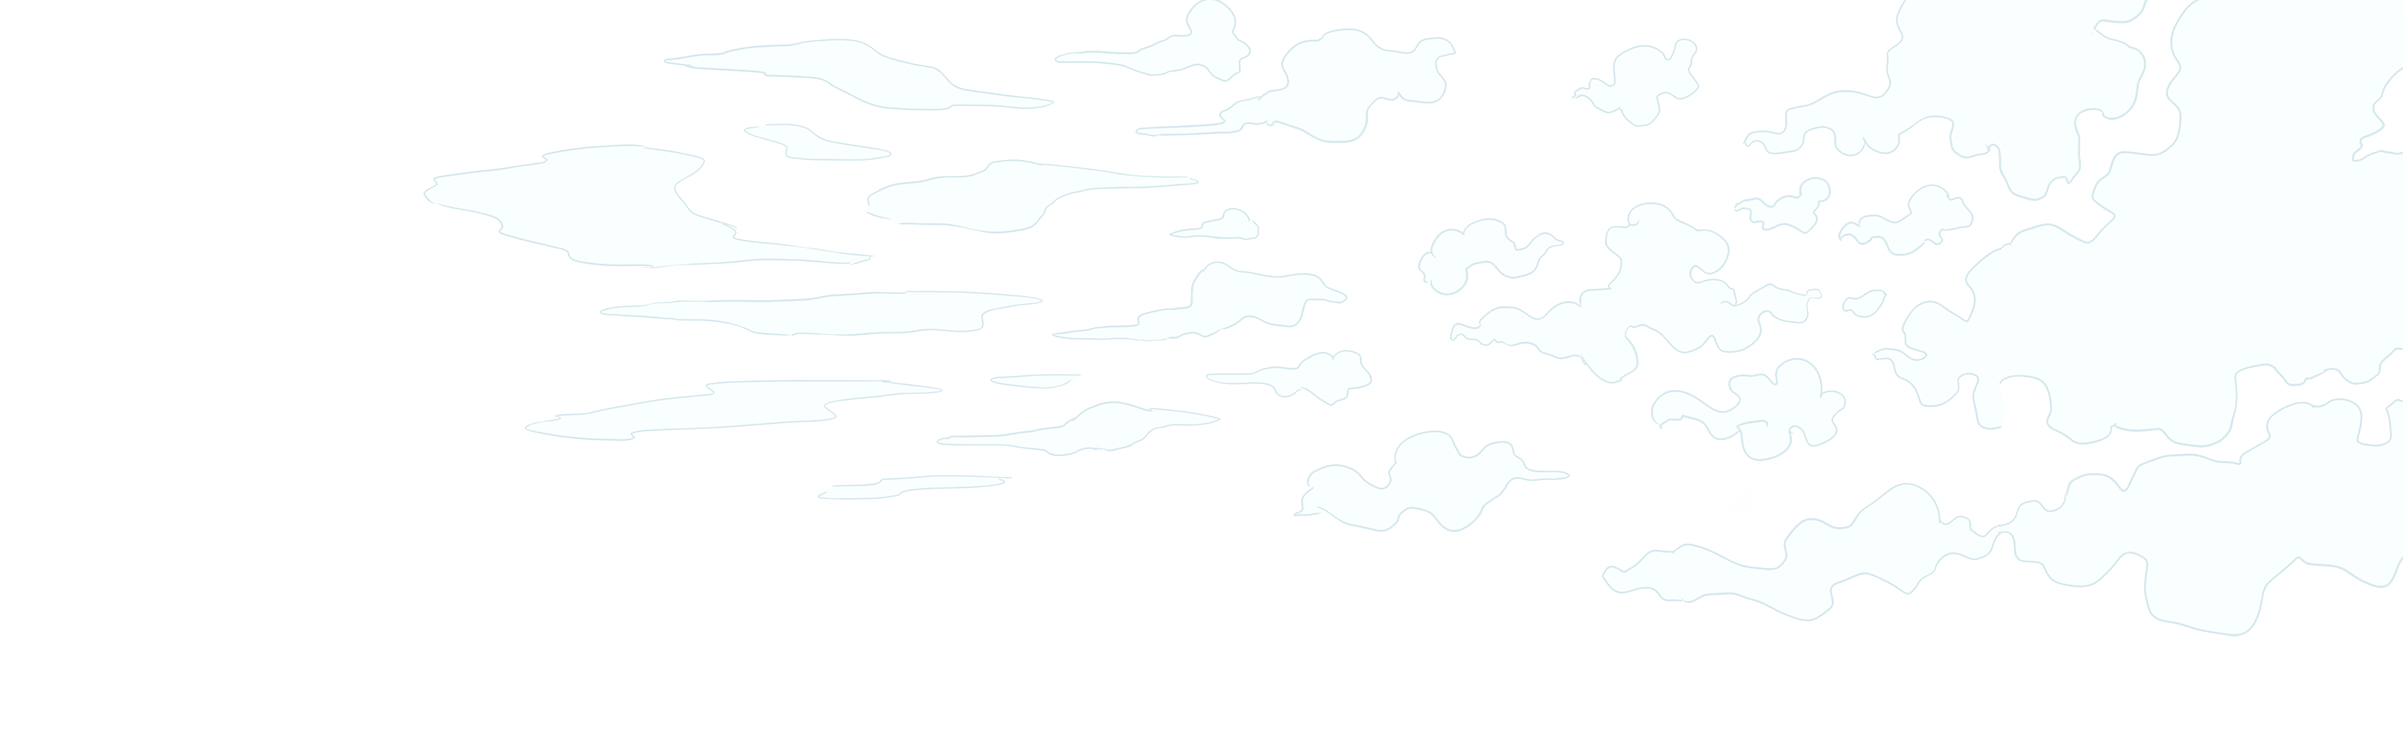
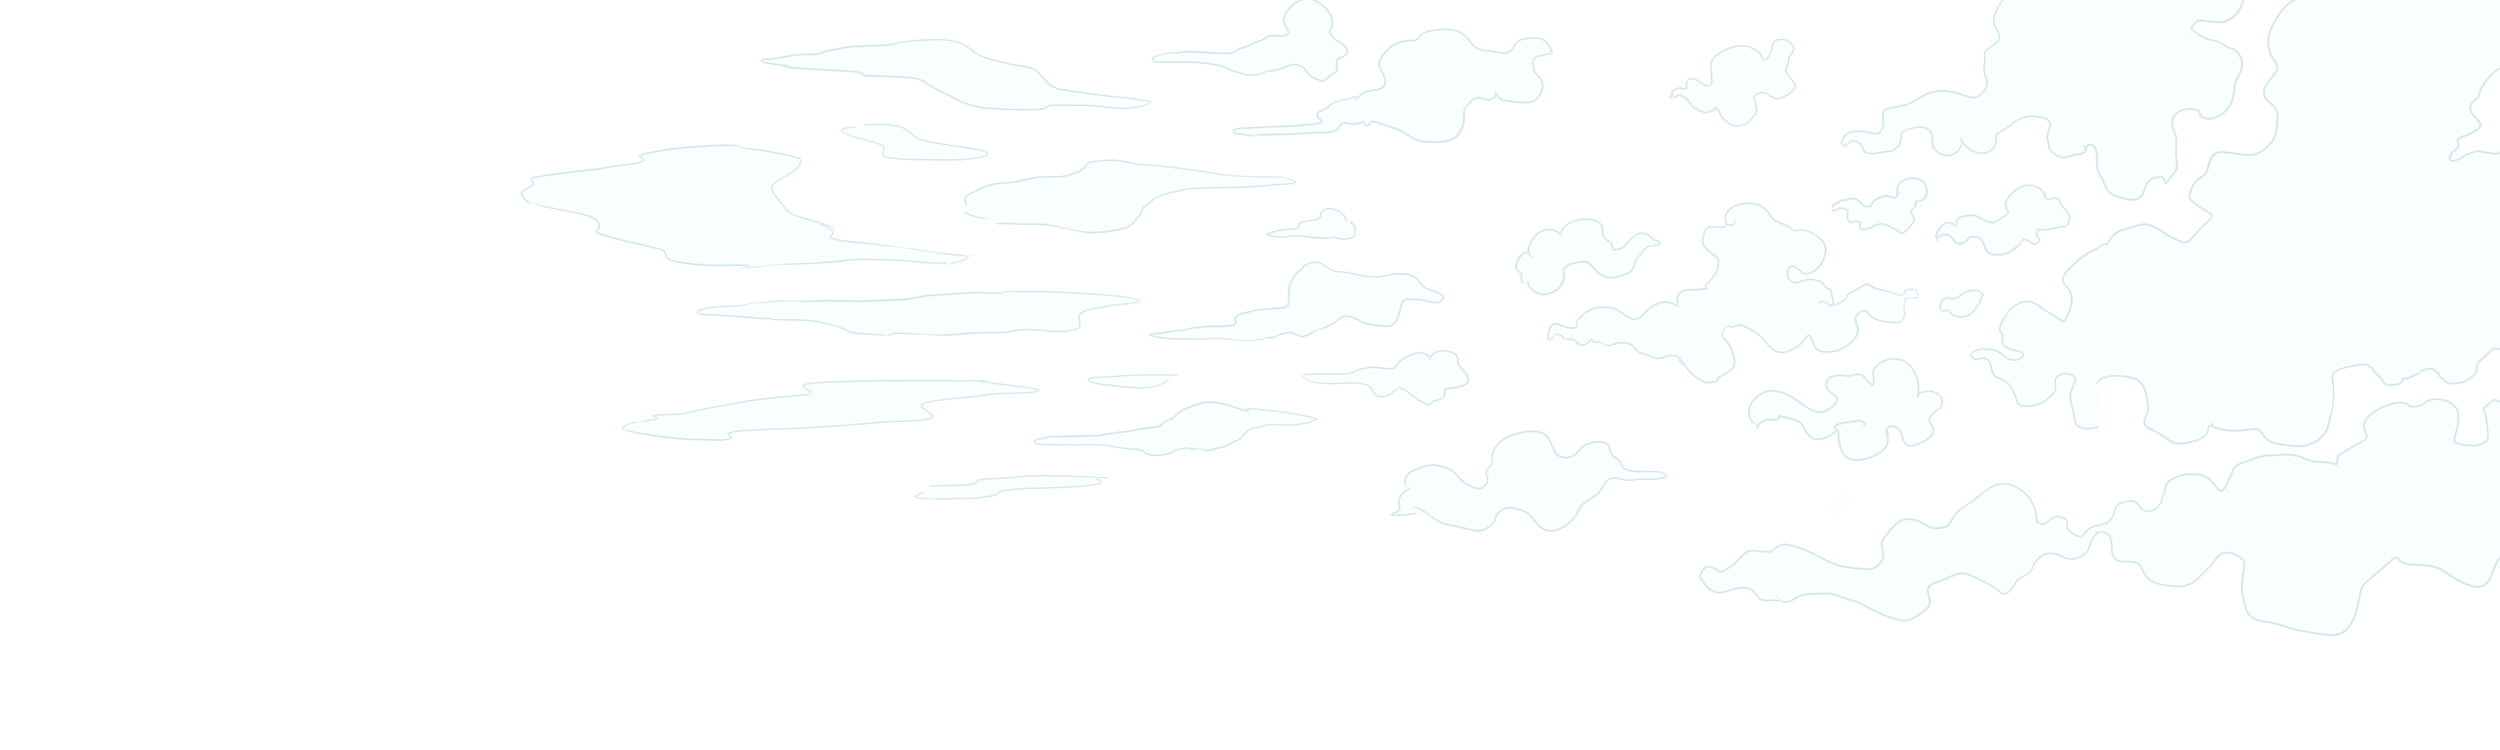
finish parallax

diff --git a/index.js b/index.js
@@ -1,26 +1,26 @@
-// it's just easier to keep track when you make the width of the canvas a variable
+// Constants
 const CANVAS_WIDTH = 1500;
 const CANVAS_HEIGHT = 750;
-const IMG_WIDTH = 2050;
-const LEFT_BORDER = 300;
-const RIGHT_BORDER = 1200;
+const BASE_IMG_WIDTH = 2050;
+const LEFT_BORDER = 350;
+const RIGHT_BORDER = 1150;
 const NUM_IMAGES = 11;
 
-let font;
-
+// Classes
 class Location {
-  constructor(mult) {
-    this.x = (CANVAS_WIDTH - IMG_WIDTH) / 2;
-    this.mult = mult;
+  constructor(x) {
+    this.x = x;
   }
 }
 
+// Preloads
 let locationArray = [];
 let imageArray = [];
-
 let worldBot;
+let font;
 
-let state = "intro";
+// State Control
+let state = "panorama";
 let fade = 0;
 let fadeState = "";
 
@@ -32,7 +32,9 @@ function preload() {
 
   // Init locations
   for (let i = 0; i < 11; i++) {
-    locationArray.push(new Location(i));
+    locationArray.push(
+      new Location((CANVAS_WIDTH - (BASE_IMG_WIDTH + i * 25)) / 2)
+    );
   }
 
   worldBot = loadImage("logo-ring.png");
@@ -66,6 +68,10 @@ function draw() {
       fadeState = "fade-out";
       state = "panorama";
     }
+    if (fade < 0) {
+      fadeState = "";
+    }
+
     fill(0, fade);
 
     fadeState === "fade-in" ? (fade += 1) : (fade -= 0.5);
@@ -85,6 +91,7 @@ function mouseReleased() {
   }
 }
 
+// Function specific
 let floatTimer = 0;
 let floatSpeed = 1;
 let floatHeight = 30;
@@ -106,25 +113,34 @@ const drawIntro = () => {
   text("Please click me and get ready to enter.", 1000, 305, 300);
 };
 
+const turnSpeed = 200;
 const drawPanorama = () => {
-  // if the mouse moves to the left, the images move slightly to the right
-  if (mouseX < LEFT_BORDER) {
-    locationArray.forEach((layer, idx) => {
-      if (!(locationArray[NUM_IMAGES - 1].x > 300)) {
-        console.log(locationArray);
-        layer.x = layer.x + layer.mult * ((LEFT_BORDER - mouseX) / 100);
-      }
-    });
-  } else if (mouseX > RIGHT_BORDER) {
-    locationArray.forEach(function (layer) {
-      if (!(locationArray[NUM_IMAGES - 1].x < -790)) {
-        layer.x = layer.x - layer.mult * ((mouseX - RIGHT_BORDER) / 100);
-      }
-    });
+  //// if the mouse moves to the left, the images move slightly to the right
+  if (fadeState === "") {
+    if (mouseX < LEFT_BORDER) {
+      locationArray.forEach((layer, idx) => {
+        // If the front image is full scrolled
+        if (!(locationArray[0].x > 0)) {
+          let mouseVector = (LEFT_BORDER - mouseX) / turnSpeed;
+          let layerVector = (idx * 25 + 550) / 550;
+          layer.x += mouseVector * layerVector;
+        }
+      });
+    } else if (mouseX > RIGHT_BORDER) {
+      locationArray.forEach(function (layer, idx) {
+        // If the front image is full scrolled
+        if (!(locationArray[0].x <= -550)) {
+          let mouseVector = (RIGHT_BORDER - mouseX) / turnSpeed;
+          let layerVector = (idx * 25 + 550) / 550;
+          layer.x += mouseVector * layerVector;
+        }
+      });
+    }
   }
-
   // draw all the images
   for (let i = NUM_IMAGES - 1; i > -1; i--) {
     image(imageArray[i], locationArray[i].x, 0);
   }
+
+  // image(imageArray[i], locationArray[i].x, 0);
 };
